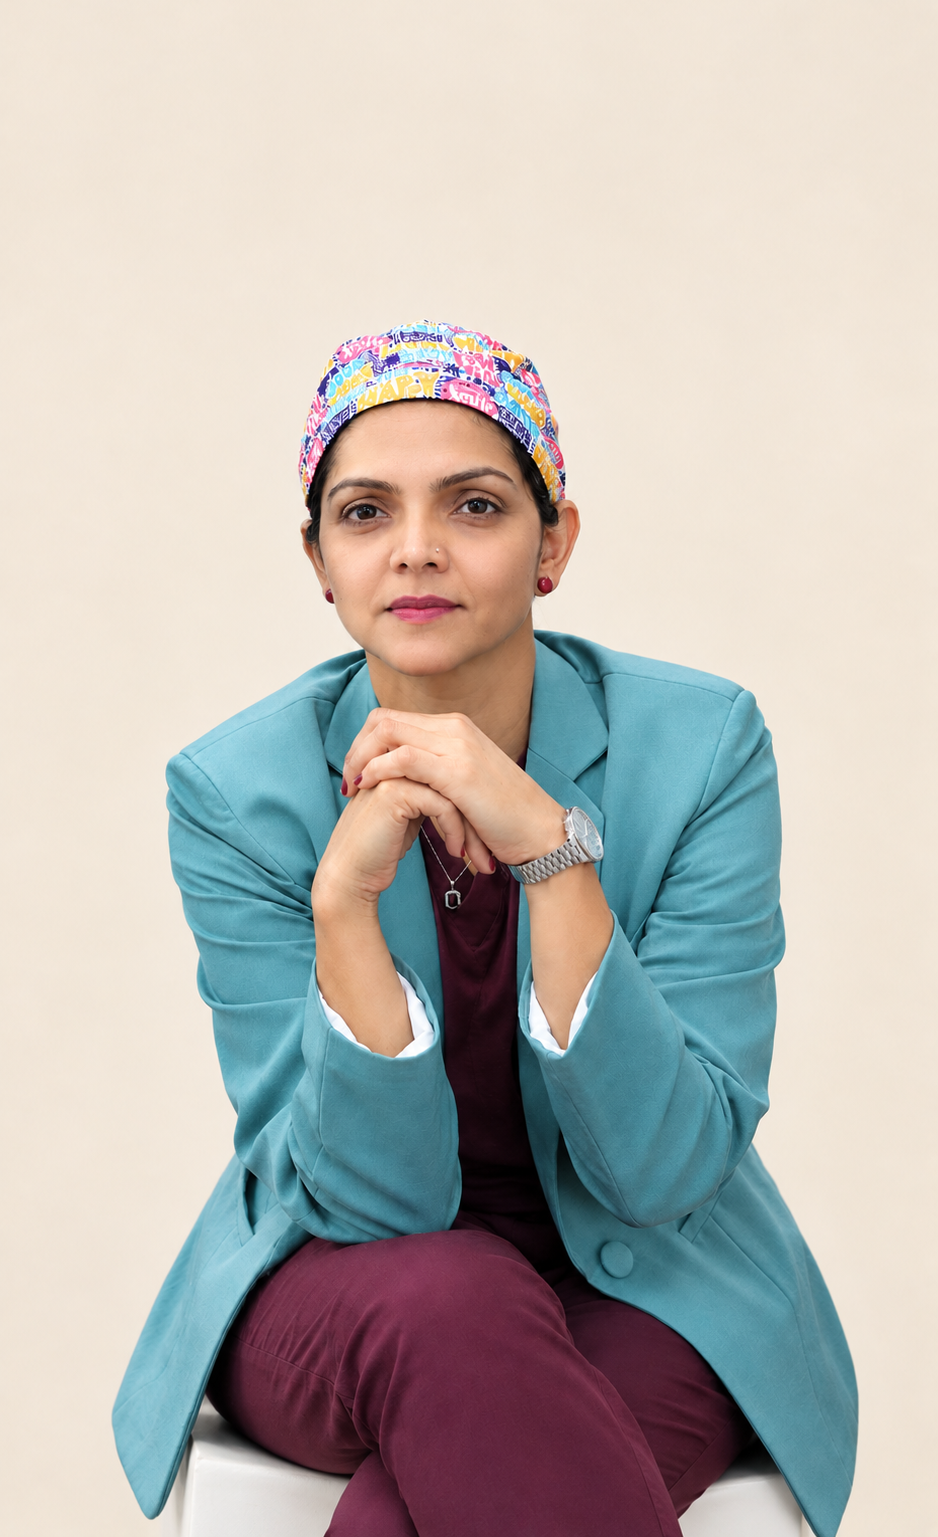
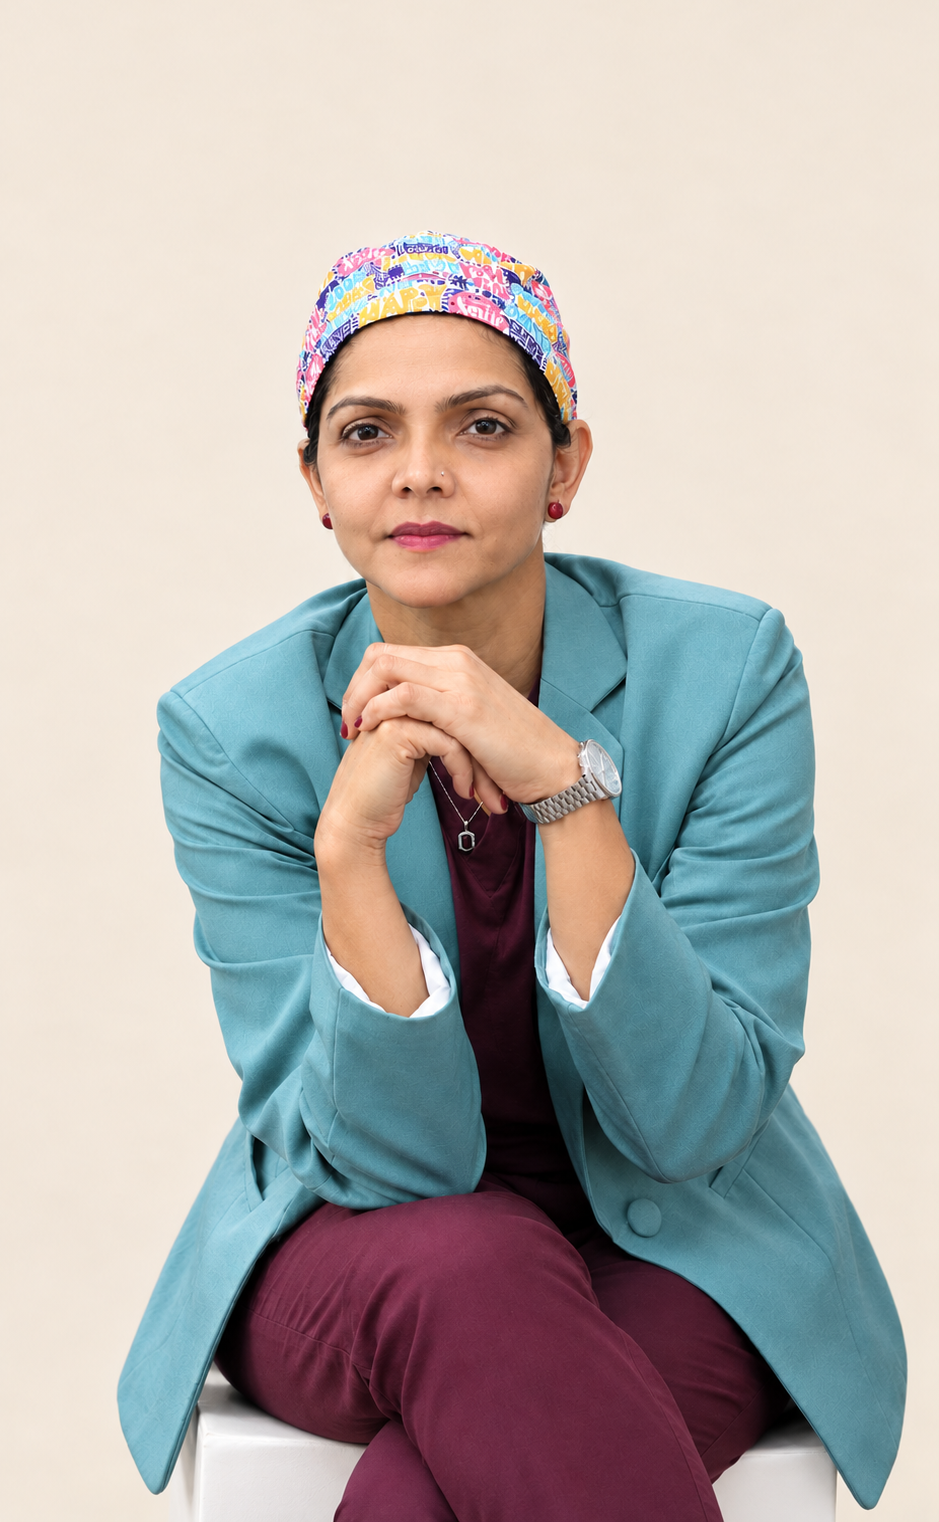
About section update

Changed region(s): [[0.1237, 0.1544, 0.9893, 1.0], [0.1546, 0.8338, 0.1855, 0.8647]]

diff --git a/src/components/About.jsx b/src/components/About.jsx
@@ -36,12 +36,24 @@ function About() {
               <i className="fa-regular fa-calendar-check"></i> Book a Consultation
             </a>
             <div className="about-social">
-              <a href="https://www.instagram.com/dr.shabnam_fertility?stkn=MWdrenF4cHRneXFpcA==" target="_blank" rel="noopener noreferrer" aria-label="Instagram">
-                <i className="fa-brands fa-instagram"></i>
-              </a>
-              <a href="https://youtube.com/@dr.shabnam_fertility?si=l3-ms20OfDayoEwh" target="_blank" rel="noopener noreferrer" aria-label="YouTube">
-                <i className="fa-brands fa-youtube"></i>
-              </a>
+              <div className="about-social-row">
+                <p>Meet Dr. Shabnam:</p>
+                <a href="https://www.instagram.com/dr.shabnam_fertility?stkn=MWdrenF4cHRneXFpcA==" target="_blank" rel="noopener noreferrer" aria-label="Dr Shabnam Instagram">
+                  <i className="fa-brands fa-instagram"></i>
+                </a>
+              </div>
+              <div className="about-social-row">
+                <p>Visit our clinic:</p>
+                <a href="https://www.instagram.com/dr.shabnams_fertility_center?stkn=MTc3M3NxbDl1bDVw" target="_blank" rel="noopener noreferrer" aria-label="Clinic Instagram">
+                  <i className="fa-brands fa-instagram"></i>
+                </a>
+              </div>
+              <div className="about-social-row">
+                <p>Watch on YouTube:</p>
+                <a href="https://youtube.com/@dr.shabnam_fertility?si=l3-ms20OfDayoEwh" target="_blank" rel="noopener noreferrer" aria-label="YouTube">
+                  <i className="fa-brands fa-youtube"></i>
+                </a>
+              </div>
             </div>
           </div>
         </div>

diff --git a/src/index.css b/src/index.css
@@ -643,6 +643,7 @@ textarea:focus-visible {
   min-height: 420px;
   overflow: hidden;
   position: relative;
+  max-width: 100%;
 }
 .split-section-visual img {
   width: 100%;
@@ -722,8 +723,14 @@ textarea:focus-visible {
 
 .about-social {
   display: flex;
-  gap: 12px;
+  flex-direction: column;
+  gap: 10px;
   margin-top: 8px;
+}
+.about-social-row {
+  display: flex;
+  align-items: center;
+  gap: 12px;
 }
 .about-social a {
   width: 42px;
@@ -735,12 +742,20 @@ textarea:focus-visible {
   align-items: center;
   justify-content: center;
   font-size: 1.05rem;
+  flex-shrink: 0;
   transition: background var(--transition), color var(--transition), transform var(--transition);
 }
 .about-social a:hover {
   background: var(--accent);
   color: var(--white);
   transform: translateY(-2px);
+}
+.about-social p {
+  font-size: 0.9rem;
+  font-weight: 500;
+  color: var(--ink-soft);
+  line-height: 1;
+  margin: 0;
 }
 .about-list li {
   display: flex;
